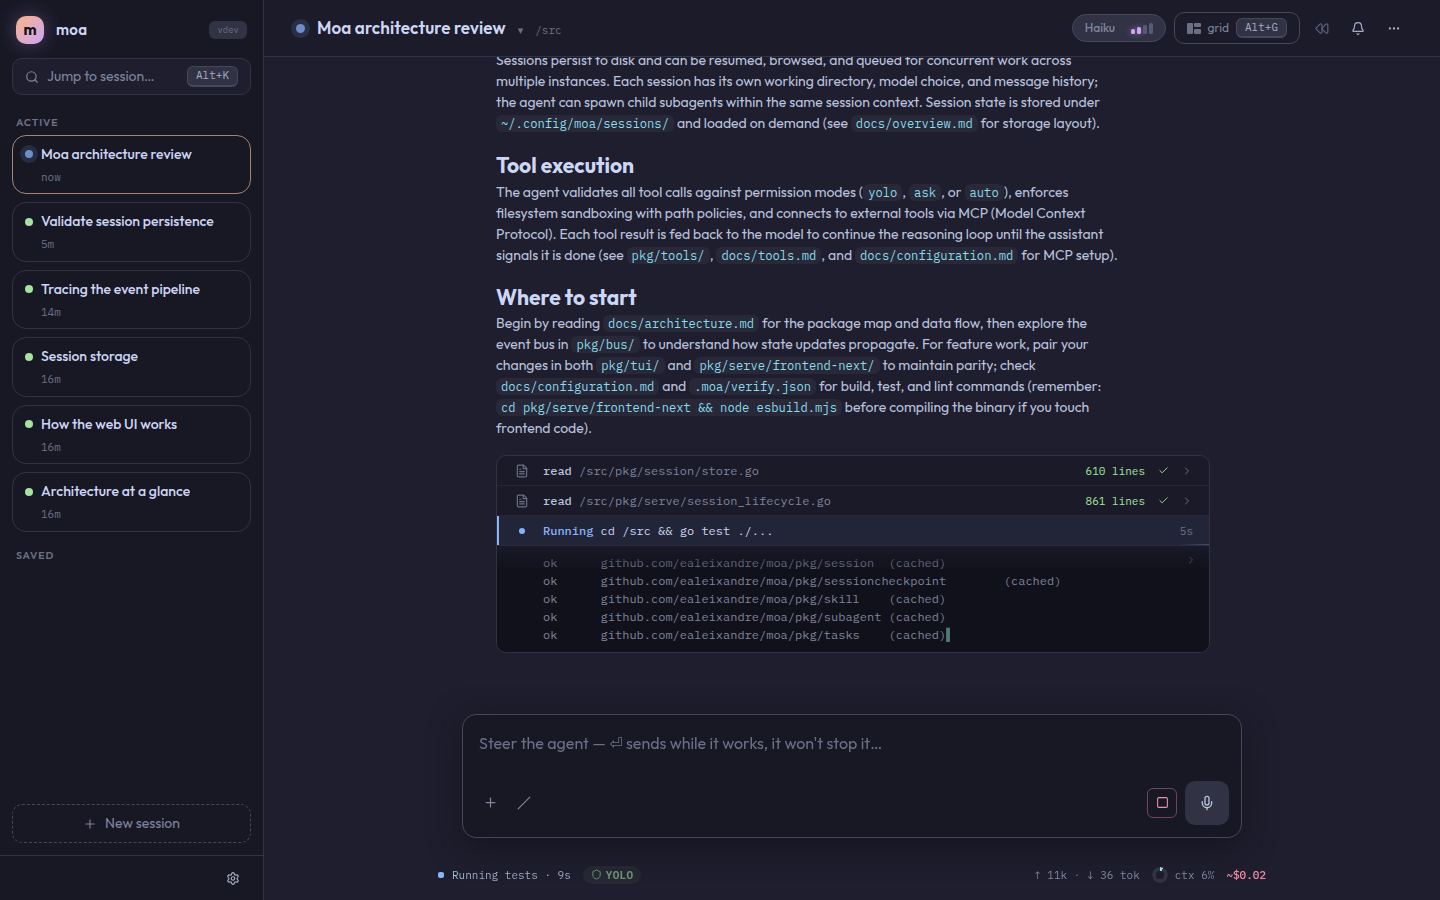
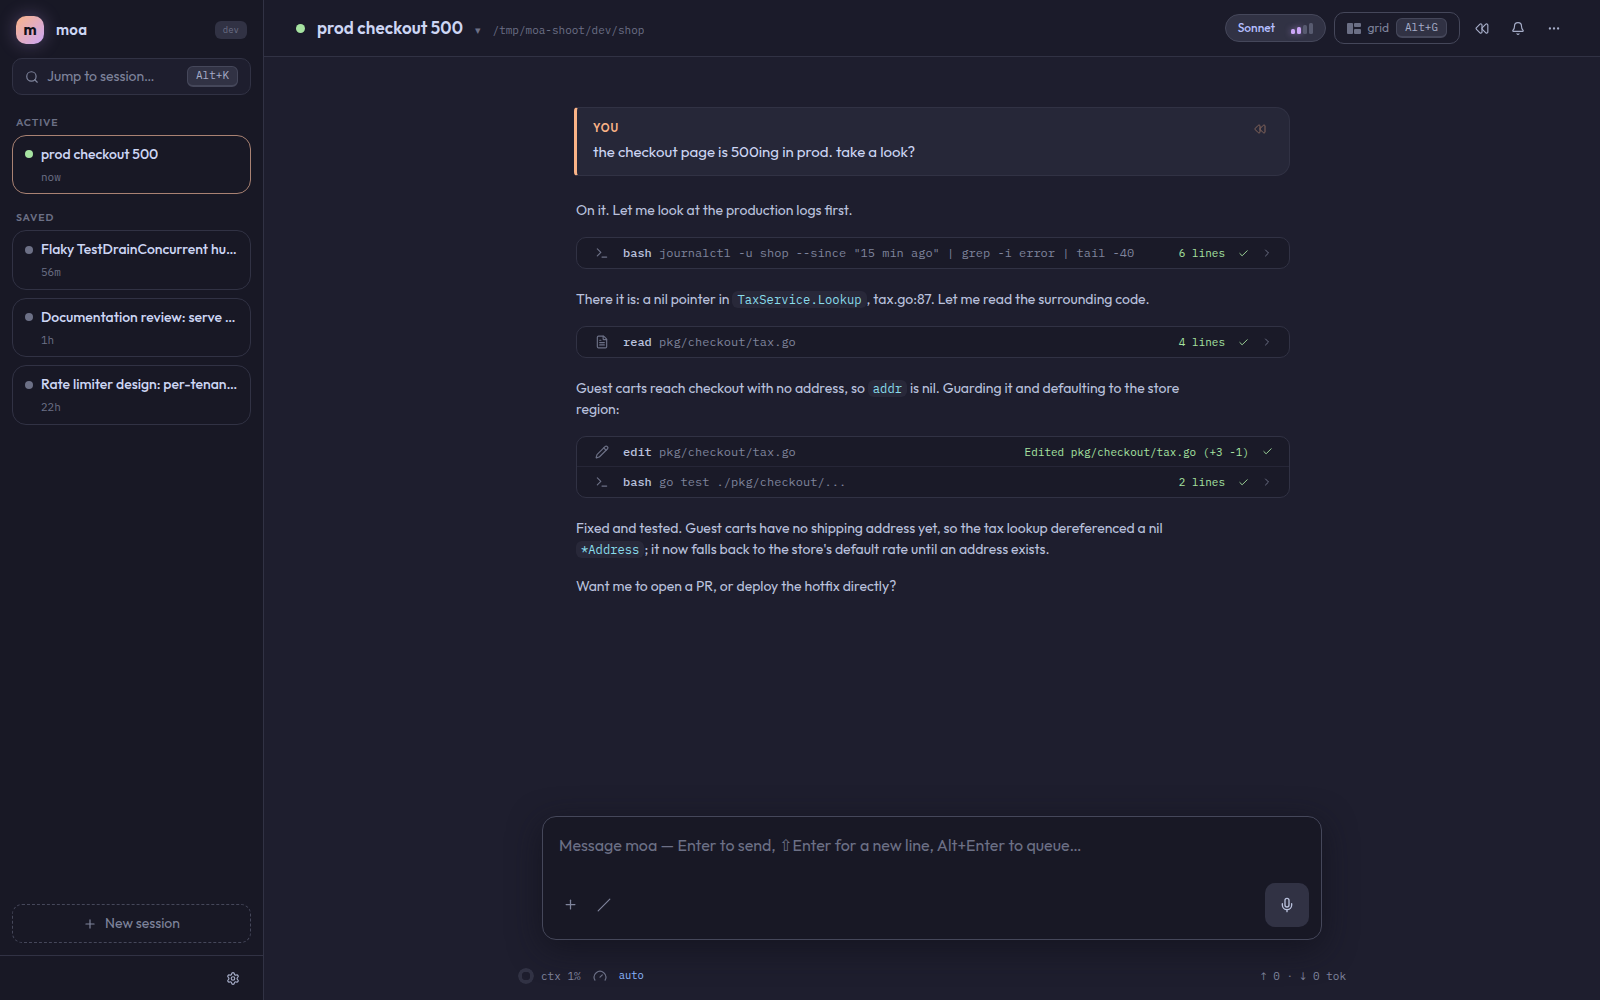
docs: refresh README screenshots with the current UI
The three README captures predated the latest UI rounds (model pill,
status line, live dock, framed phone). Replaced with the set produced
for the landing shoot: desktop and phone now show the same session, so
the 'same running session on an iPhone' claim is literal, the phone is
framed in a device shell, and the grid shows three panes with live
telemetry and the subagent dock. Added a fourth capture of a subagent's
detail view next to the delegation bullet.

diff --git a/README.md b/README.md
@@ -106,6 +106,16 @@ policies and use Moa's permission and path controls for the level of access you 
 - **Bring your own workflow.** Add MCP servers, custom script tools, verification commands,
   reusable skills, and project instructions through `AGENTS.md`.
 
+<p align="center">
+  <img
+    src="docs/assets/readme-subagent-detail.png"
+    alt="Inspecting a delegated subagent's own conversation, tool calls, and result"
+    width="1050"
+  />
+  <br/>
+  <em>Delegated work stays inspectable: each subagent has its own conversation, tools, and result.</em>
+</p>
+
 For the complete capability reference, see the
 [Overview](docs/overview.md), [Tools](docs/tools.md), and
 [Configuration](docs/configuration.md) documentation.
